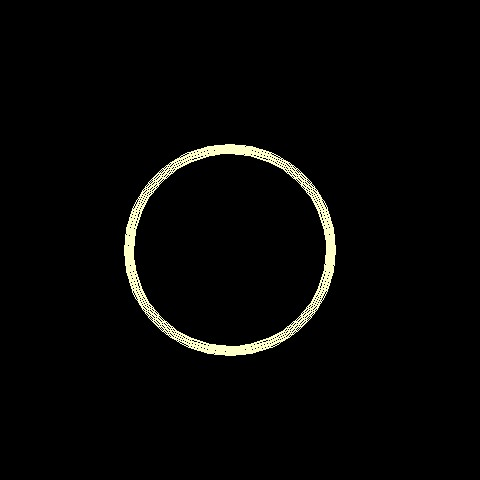
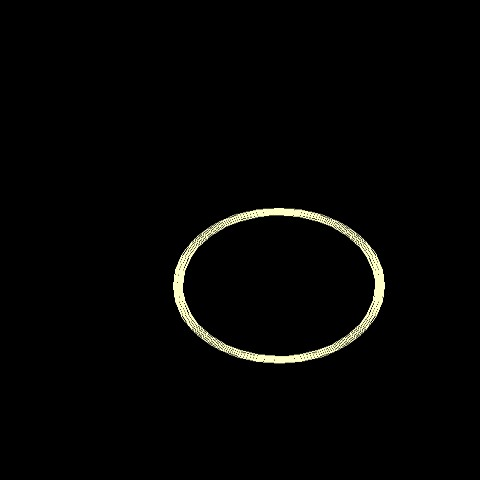
Starting work to incorporate scaling information from XML files.

Changed region(s): [[0.25, 0.2812, 0.8125, 0.7812]]

diff --git a/experiments/java/SectionClass.java b/experiments/java/SectionClass.java
@@ -34,7 +34,10 @@ public class SectionClass {
   String image_file_names[] = new String[0];
   ArrayList<String> bad_image_file_names = new ArrayList<String>();
 
-	ArrayList<ArrayList<double[]>> strokes = new ArrayList<ArrayList<double[]>>();  // Argument (if any) specifies initial capacity (default 10)
+  int highest_xform_dim = 0;
+  double image_magnification = 1.0; // This is in units per pixel, equivalent to 1 / (pixels per unit)
+
+	// ArrayList<ArrayList<double[]>> strokes = new ArrayList<ArrayList<double[]>>();  // Argument (if any) specifies initial capacity (default 10)
 	ArrayList<ContourClass> contours = new ArrayList<ContourClass>();  // Argument (if any) specifies initial capacity (default 10)
 
 	static void priority_println ( int thresh, String s ) {
@@ -51,6 +54,8 @@ public class SectionClass {
   public SectionClass ( String p_name, String f_name ) {
     this.path_name = p_name;
     this.file_name = f_name;
+		this.highest_xform_dim = 0;
+		this.image_magnification = 1.0;
 
     File section_file = new File ( this.path_name + File.separator + this.file_name );
 
@@ -66,15 +71,18 @@ public class SectionClass {
         Node child = child_nodes.item(cn);
         if (child.getNodeName() == "Transform") {
           priority_println ( 50, "    SectionClass: Node " + cn + " is a transform" );
-          String xform_dim = ((Element)child).getAttribute("dim");
+          int xform_dim = Integer.parseInt( ((Element)child).getAttribute("dim") );
           String xform_xcoef = ((Element)child).getAttribute("xcoef");
           String xform_ycoef = ((Element)child).getAttribute("ycoef");
           priority_println ( 50, "      dim = \"" + xform_dim + "\"" );
           priority_println ( 50, "      xcoef = " + xform_xcoef );
           priority_println ( 50, "      ycoef = " + xform_ycoef );
-					if ( (!xform_dim.trim().equals("0")) && (!xform_dim.trim().equals("1")) )  {
+					if ( (!(xform_dim == 0)) && (!(xform_dim == 1)) )  {
 						priority_println ( 100, "Transforms must be 0 or 1 dimension in this version." );
-						JOptionPane.showMessageDialog(null, "Error: Dim=" + xform_dim.trim() + ", transforms must be 0 or 1 dimension in this version.", "SectionClass: Dim error", JOptionPane.WARNING_MESSAGE);
+						JOptionPane.showMessageDialog(null, "Error: Dim=" + xform_dim + ", transforms must be 0 or 1 dimension in this version.", "SectionClass: Dim error", JOptionPane.WARNING_MESSAGE);
+					}
+					if (xform_dim > highest_xform_dim) {
+						highest_xform_dim = xform_dim;
 					}
 
           if (child.hasChildNodes()) {
@@ -103,6 +111,12 @@ public class SectionClass {
                     priority_println ( 20, "SectionClass: Error getting path for " + ((Element)grandchild).getAttribute("src") );
                     System.exit(1);
                   }
+                  try {
+                    this.image_magnification = Double.parseDouble ( ((Element)grandchild).getAttribute("mag") );
+                  } catch (Exception e) {
+                    priority_println ( 20, "SectionClass: Error getting image magnification for " + ((Element)grandchild).getAttribute("src") );
+                    this.image_magnification = 1.0;
+                  }
                   image_file_names = new_names;
                 } else if (grandchild.getNodeName() == "Contour") {
                   priority_println ( 40, "      SectionClass: Grandchild " + gn + " is an image perimeter contour" );
@@ -127,7 +141,7 @@ public class SectionClass {
                     stroke.add ( p );
                     priority_println ( 20, "              " + xy_str[xyi].trim() + " = " + p[0] + "," + p[1] );
                   }
-                  strokes.add ( stroke );
+                  // strokes.add ( stroke );
                   contours.add ( new ContourClass ( stroke, ((Element)grandchild).getAttribute("border"), ((Element)grandchild).getAttribute("closed").trim().equals("true") ) );
                   priority_println ( 40, "         SectionClass: Contour points: " + ((Element)grandchild).getAttribute("points") );
                 }
@@ -147,7 +161,8 @@ public class SectionClass {
 
 
   public void dump_strokes() {
-  	System.out.println ( "Dumping a Section:" );
+		System.out.println ( "Dumping Contours for a Section:" );
+		/*
     for (int i=0; i<strokes.size(); i++) {
       priority_println ( 150, " Stroke " + i );
       ArrayList<double[]> s = strokes.get(i);
@@ -156,6 +171,7 @@ public class SectionClass {
 	      priority_println ( 150, "   Point " + j + " = [" + p[0] + "," + p[1] + "]" );
 	    }
     }
+    */
     for (int i=0; i<contours.size(); i++) {
       priority_println ( 150, " Contour " + i );
       ContourClass contour = contours.get(i);
@@ -168,11 +184,11 @@ public class SectionClass {
   }
 
   public void clear_strokes() {
-    strokes = new ArrayList<ArrayList<double[]>>();
+    // strokes = new ArrayList<ArrayList<double[]>>();
   }
 
   public void add_stroke (	ArrayList<double[]> stroke ) {
-    strokes.add ( stroke );
+    // strokes.add ( stroke );
   }
 
 
@@ -301,6 +317,11 @@ public class SectionClass {
       g.drawLine ( cx-10, cy, cx+10, cy );
       g.drawLine ( cx, cy-10, cx, cy+10 );
     }
+    // if (highest_xform_dim > 0) {
+      g.setColor ( new Color ( 255, 255, 255 ) );
+			g.drawString ( "Transform Dimension = " + highest_xform_dim, 10, 24 );
+			g.drawString ( "Image Magnification = " + image_magnification, 10, 44 );
+    // }
 	}
 
 
